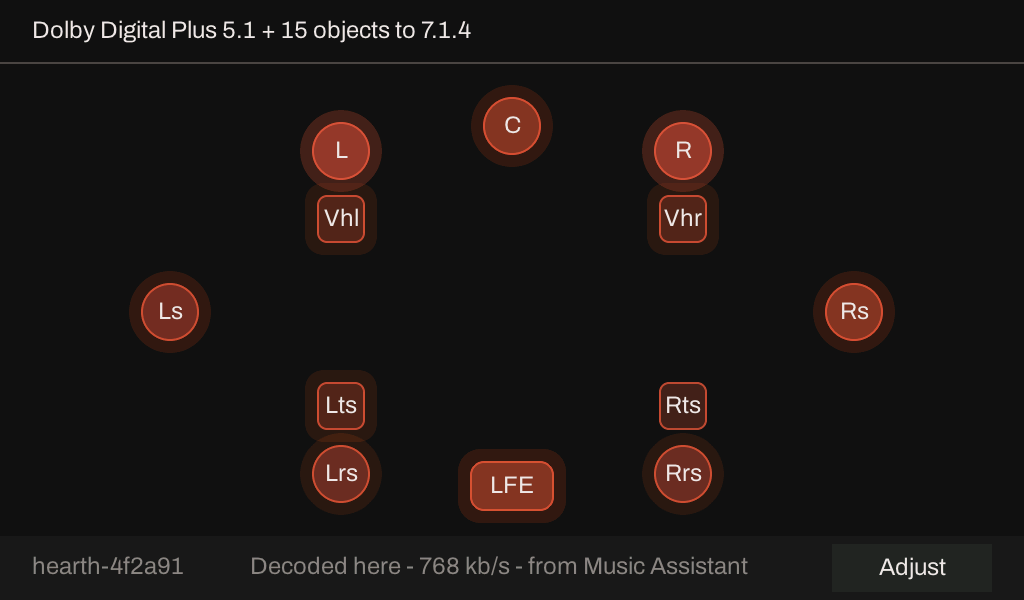
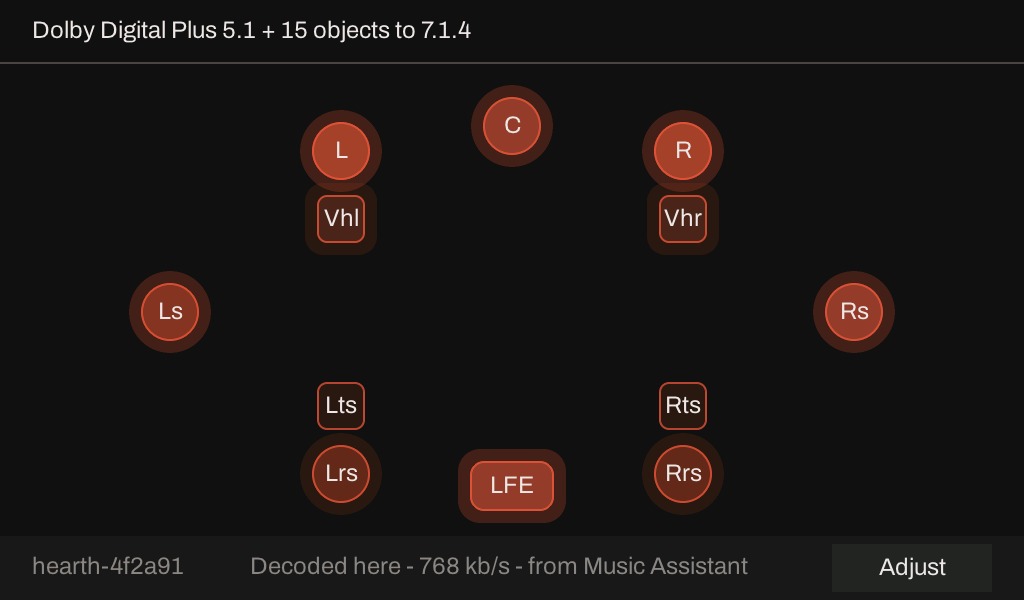
docs(hearth): retake the speakers pictures from the responsive glow, and draw the pulse
The six preview pictures the new glow changes (the speakers at 5.1, at 7.1.4 and with a title, the stream
details, the PCM stream and the dark Adjust sheet) are retaken from 137218aa7, with two new ones for the pulse
style at 2.0 and 5.1, and named in tools/pictures/pictures.json. The owner kept both styles, the pulse at
plus and minus 12%, glow the default: noted in the plan and the sink's page.

Changed region(s): [[0.2812, 0.6, 0.375, 0.75], [0.625, 0.63, 0.6875, 0.72]]

diff --git a/planning/p4x-now-playing.md b/planning/p4x-now-playing.md
@@ -337,6 +337,10 @@ So stage 4 is that, and nothing from the seven:
   invalid in a refresh). Measured with 32 and 128 the glow is identical in every room and the pulse differs only at
   9.1.6 (166 against 144 thousand), so the compile definition is not worth carrying. It matters for any busier view:
   the bands option flushed 5.5 million pixels a second in a 7.1.4 room with 32 and 0.27 million with 128.
+- **The owner's decision** (2026-10-25, after a picture and an animation of the old glow, the new glow and the pulse in 2.0
+  and 5.1): the pulse stays at plus and minus 12% as drawn, and both styles stay as a choice, glow (the new
+  responsive one) the default. The setting becomes a Preferences registry entry (choice, group Display) once that
+  branch has merged; until then it is `PUT /speakers-style`.
 - **To do on the kit:** the A/B of `burst_us` (E-AC-3 5.1, stereo PCM, AC-4 5.1) with the old glow, the new glow and
   the pulse, in alternating order, against the +0.4% the first design cost a 5.1 burst; and the owner's eye on the
   glass.

diff --git a/docs/hearth/sink-esp32-p4.md b/docs/hearth/sink-esp32-p4.md
@@ -228,6 +228,12 @@ redraws the circle's rectangle and nothing else. It needs no meter and no seam t
 set with `PUT /speakers-style` (and, once Preferences is on the board, from there); the value is kept on the
 board as `np_style` (0 glow, 1 pulse; never renumbered).
 
+![The speakers in the pulse style, 5.1: the louder a speaker, the larger its circle](screenshots/p4-panel-speakers-pulse-5-1.png)
+![The speakers in the pulse style, 2.0](screenshots/p4-panel-speakers-pulse-2-0.png)
+
+Both styles stay: the owner, 2026-10-25, saw the glow, as it was and as it became, beside the pulse at plus and
+minus 12% (the bound is `kPulseReach`), and kept both as a choice, with the glow the default.
+
 Which screen shows is the owner's: `speakers` (the default), `title`, `clock` ([below](#the-clock)),
 `dark`, or `off`, which is the old sentence. The plan, with how each was chosen and built, is
 ([planning/p4x-now-playing.md](https://github.com/iainchesworthlabs/iclforge/blob/main/planning/p4x-now-playing.md)).
